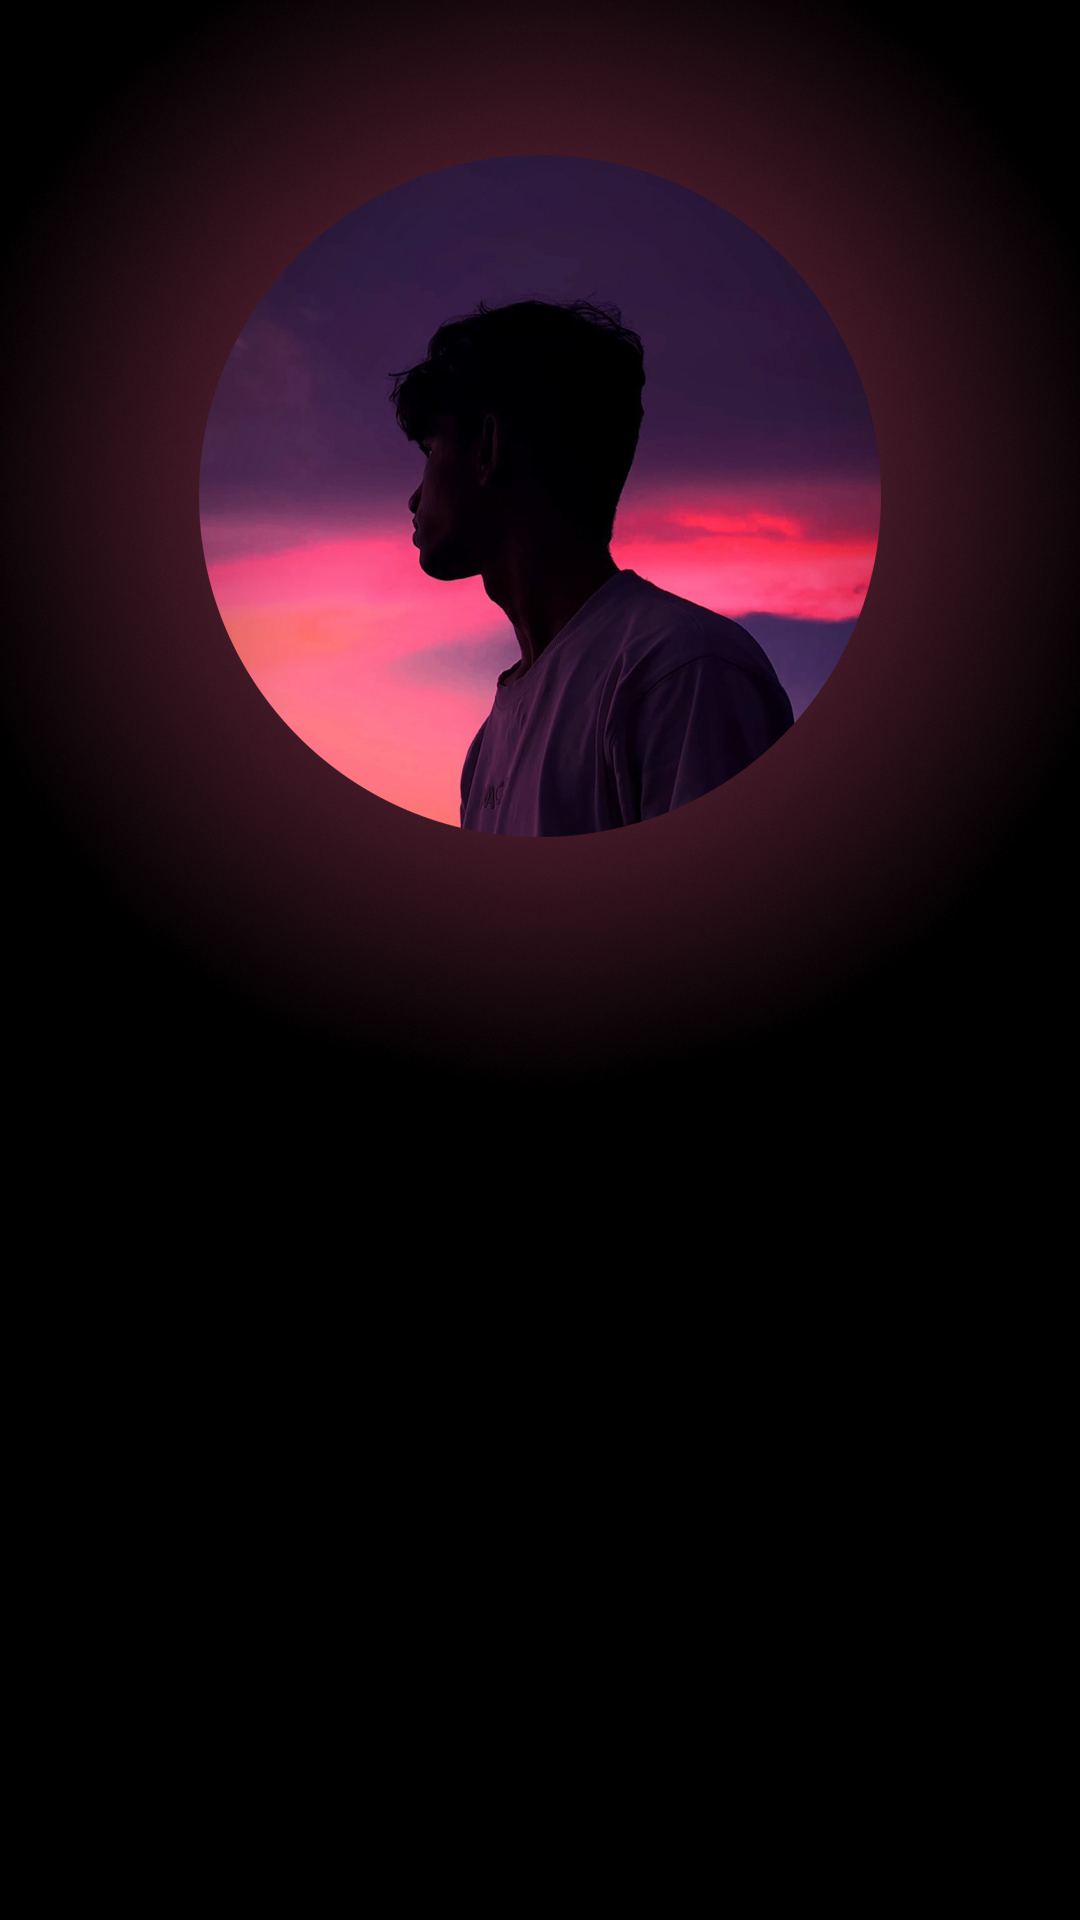
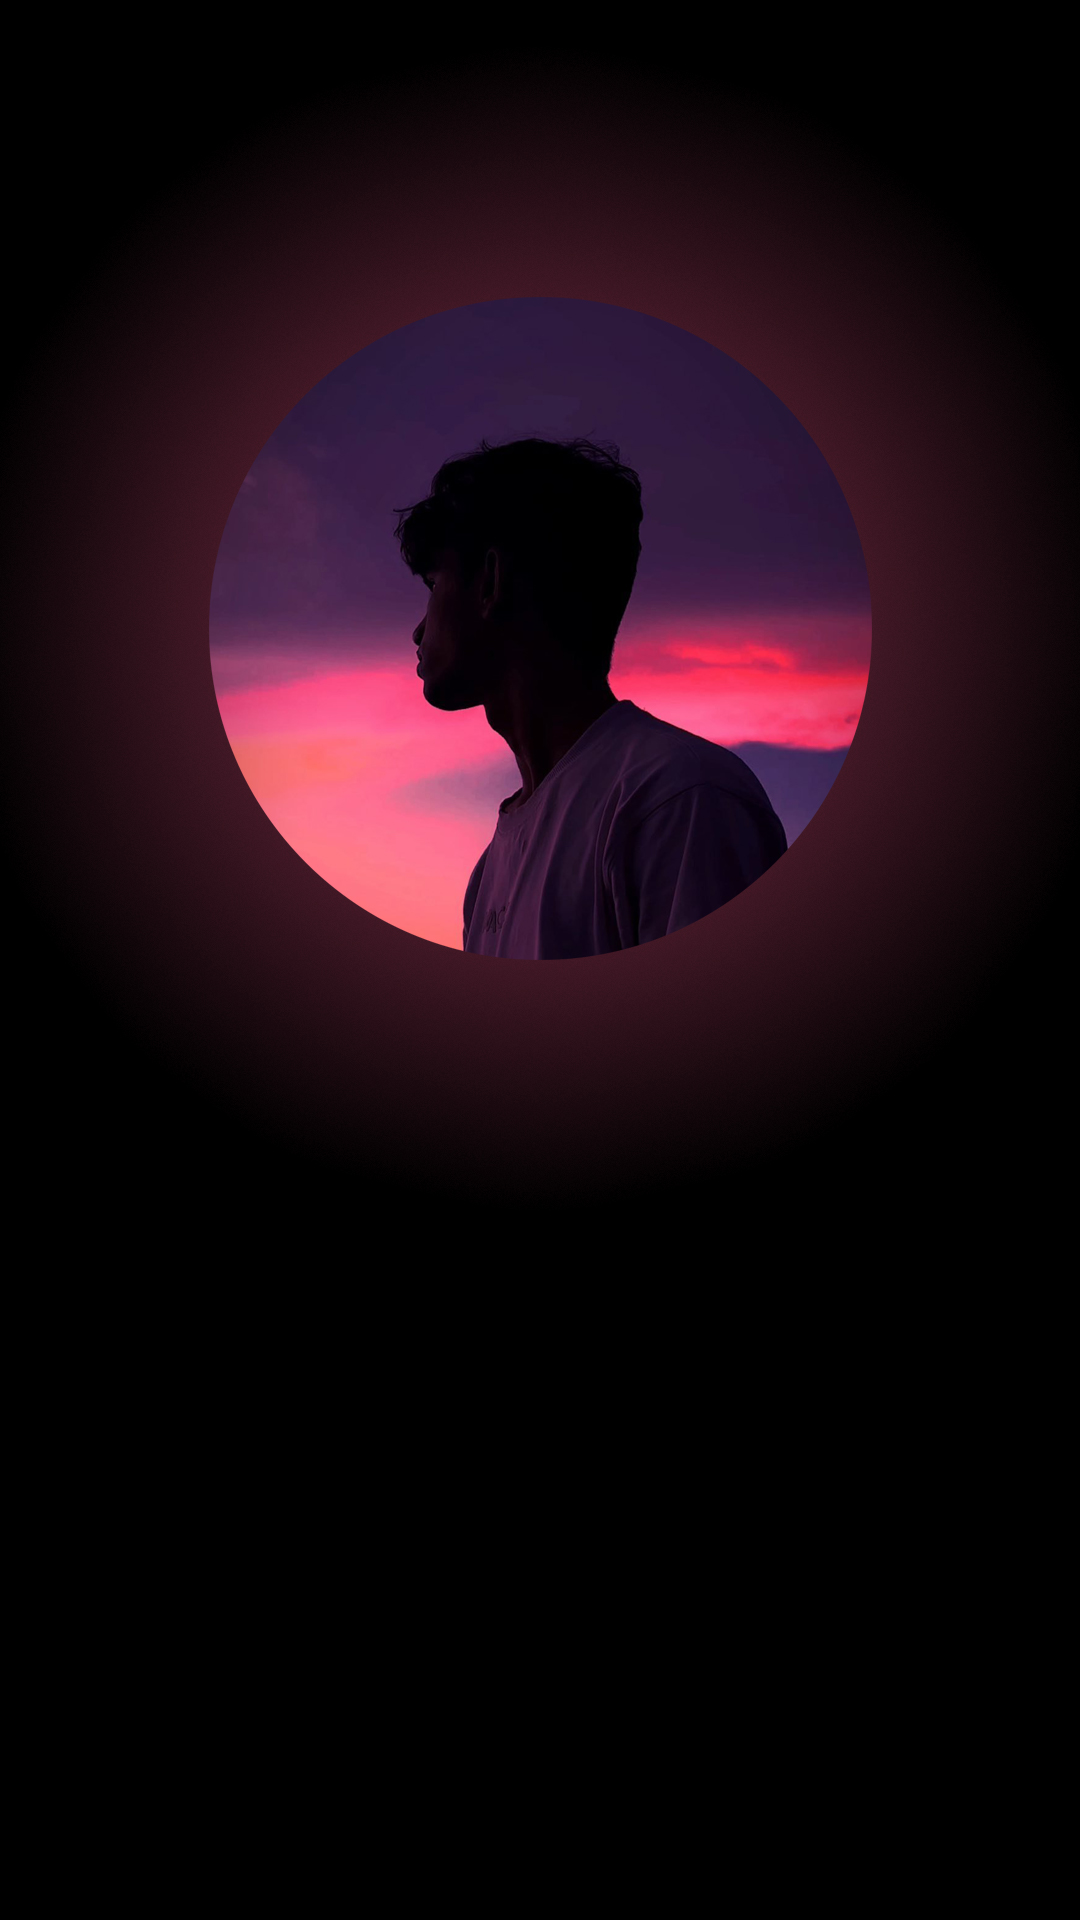
change

Changed region(s): [[0.1222, 0.0, 0.8861, 0.5938]]

diff --git a/Home.css b/Home.css
@@ -213,6 +213,10 @@
     background-position: 51.9% 52.19%;
   }
 
+  .u-section-1 .u-sheet-1 {
+    min-height: 612px;
+  }
+
   .u-section-1 .u-list-1 {
     width: 228px;
     margin-top: 20px;
@@ -236,58 +240,57 @@
   }
 
   .u-section-1 .u-text-1 {
-    margin-top: 320px;
-    margin-left: 89px;
-    margin-right: 89px;
+    margin-top: 175px;
+    margin-left: 92px;
   }
 
   .u-section-1 .u-text-2 {
     font-size: 1.5rem;
     margin-top: 6px;
-    margin-left: 126px;
+    margin-left: 129px;
   }
 
   .u-section-1 .u-image-1 {
     width: 28px;
     height: 68px;
     margin-top: -53px;
-    margin-left: 186px;
+    margin-left: 189px;
   }
 
   .u-section-1 .u-text-3 {
     margin-top: 9px;
-    margin-left: auto;
+    margin-left: 87px;
   }
 
   .u-section-1 .u-image-2 {
     width: 39px;
     height: 40px;
     margin-top: 25px;
-    margin-left: 106px;
+    margin-left: 109px;
   }
 
   .u-section-1 .u-text-4 {
     width: auto;
     margin-top: -33px;
-    margin-left: 145px;
+    margin-left: 148px;
   }
 
   .u-section-1 .u-image-3 {
     width: 40px;
     height: 40px;
     margin-top: 14px;
-    margin-left: 79px;
+    margin-left: 82px;
   }
 
   .u-section-1 .u-text-5 {
     width: auto;
     margin-top: -34px;
-    margin-left: 119px;
+    margin-left: 122px;
   }
 
   .u-section-1 .u-btn-4 {
     margin-top: 21px;
-    margin-left: auto;
-    margin-bottom: 47px;
+    margin-bottom: 19px;
+    margin-left: 91px;
   }
 }

diff --git a/Post-Template.css b/Post-Template.css
@@ -77,11 +77,21 @@
 
 @media (max-width: 575px) {
   .u-section-1 .u-sheet-1 {
-    min-height: 656px;
+    min-height: 835px;
+  }
+
+  .u-section-1 .u-post-details-1 {
+    margin-bottom: -10px;
+  }
+
+  .u-section-1 .u-container-layout-1 {
+    padding-left: 30px;
+    padding-right: 30px;
   }
 
   .u-section-1 .u-image-1 {
-    height: 275px;
+    height: 486px;
+    margin-top: 0;
     margin-left: initial;
   }
 }

diff --git a/index.html b/index.html
@@ -64,4 +64,5 @@
     
     
     
+  
 </body></html>
